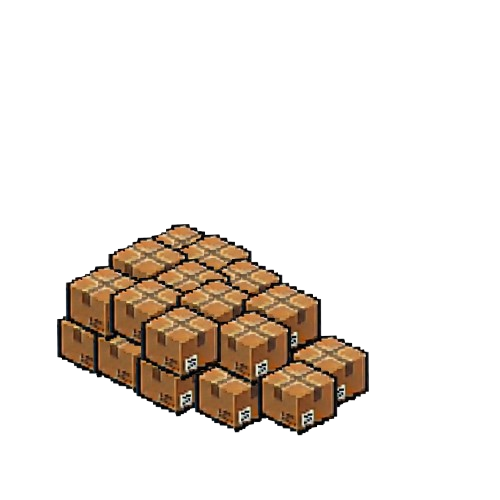
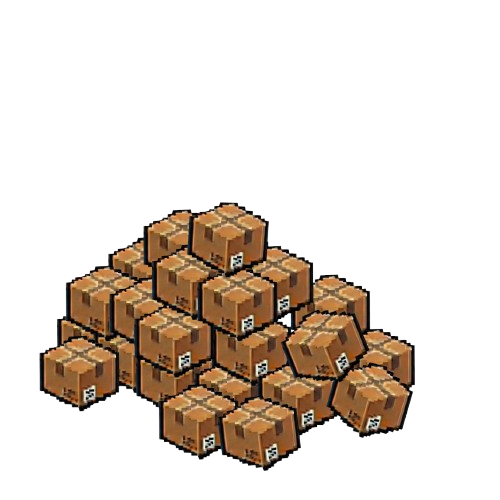
ajout des boites dans le decord(image change en fonction du stock)

Changed region(s): [[0.27, 0.39, 0.84, 0.96], [0.06, 0.66, 0.24, 0.84]]

diff --git a/script/principal/nodeRootPrincipal.cs b/script/principal/nodeRootPrincipal.cs
@@ -41,6 +41,7 @@ public partial class nodeRootPrincipal : Node2D
 	private Button _btnAchatLaine;
 	
 	public Node2D _sceneAmelioration;
+	private Sprite2D _spriteBoites;
 	private TextureRect overlay;
 
 
@@ -72,6 +73,9 @@ public partial class nodeRootPrincipal : Node2D
 		_lblStockChaussette.Text += " " + _stockChaussette;
 		_lblStockProduitFini.Text += " " + _stockProduitFini;
 		
+		
+		_spriteBoites = GetNode<Sprite2D>("Sprite2DFond/Sprite2DBoites");
+		_spriteBoites.Texture = GD.Load<Texture2D>("res://image/transparent.png");
 		
 		//creation de la scene amelioration
 		PackedScene ps = GD.Load<PackedScene>("res://scenes/amelioration.tscn");
@@ -203,7 +207,7 @@ public partial class nodeRootPrincipal : Node2D
 		AddChild(overlay);
 
 		// Image
-		overlay.Texture = GD.Load<Texture2D>("res://image/blaisser1.png");
+		overlay.Texture = GD.Load<Texture2D>("res://image/blesse1.png");
 
 		// Création du label pour le message
 		Label message = new Label();
@@ -311,7 +315,26 @@ public partial class nodeRootPrincipal : Node2D
 	public void addStockProduitFini(int ajout)
 	{
 		_stockProduitFini += ajout;
-		_lblStockProduitFini.Text = "Stock de Produit Finit: " + _stockProduitFini;
+		_lblStockProduitFini.Text = "Stock de Produit Fini: " + _stockProduitFini;
+
+		if (_spriteBoites == null) return;
+
+		if (_stockProduitFini < 5)
+		{
+			_spriteBoites.Texture = GD.Load<Texture2D>("res://image/transparent.png");
+		}
+		else if (_stockProduitFini < 43)
+		{
+			_spriteBoites.Texture = GD.Load<Texture2D>("res://image/boites1.png");
+		}
+		else if (_stockProduitFini < 71)
+		{
+			_spriteBoites.Texture = GD.Load<Texture2D>("res://image/boites2.png");
+		}
+		else
+		{
+			_spriteBoites.Texture = GD.Load<Texture2D>("res://image/boites3.png");
+		}
 	}
 
 	public void subStockProduitFini(int retrait)
